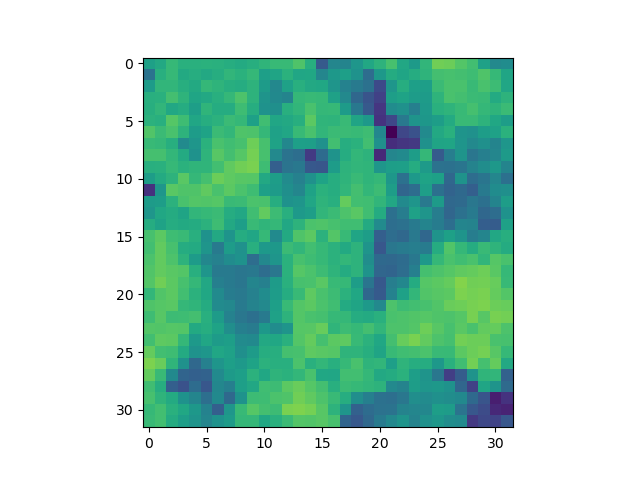
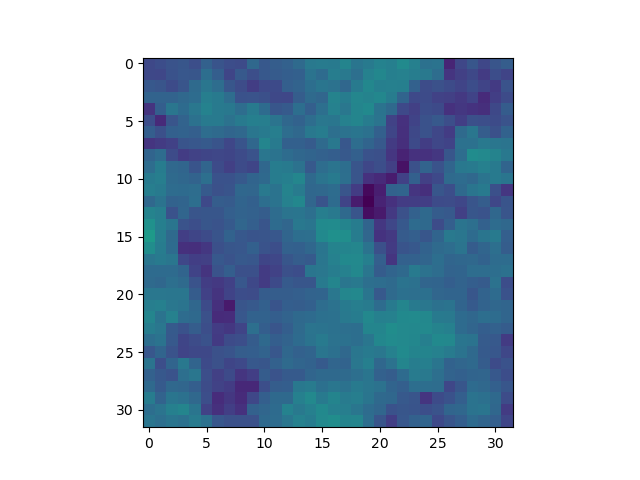
schlather model 2 val data

diff --git a/brown_resnick/sde_diffusion/masked/unparameterized_masked_score/evaluation/diffusion_generation/conditional_mask_data_generation.py b/brown_resnick/sde_diffusion/masked/unparameterized_masked_score/evaluation/diffusion_generation/conditional_mask_data_generation.py
@@ -151,7 +151,7 @@ smooth_value = 1.6
 replicates_per_call = 250
 calls = 4
 number_of_replicates = 1
-seed_value = 7592
+seed_value = 48924
 ref_img = np.log(generate_schlather_process(range_value, smooth_value, seed_value, number_of_replicates, n))
 ref_img = th.from_numpy(ref_img.reshape((1,n,n))).to(device)
 p = .05
@@ -166,7 +166,7 @@ for i in range(0, 4):
 
     partially_observed = (mask*ref_img).detach().cpu().numpy().reshape((n,n))
     np.save("data/schlather/model2/ref_image3/ref_image.npy", ref_img.detach().cpu().numpy().reshape((n,n)))
-    np.save("data/schlather/model2/ref_image3/diffusion/model2_beta_min_max_01_20_random025_250_" + str(i) + ".npy", conditional_samples)
+    np.save("data/schlather/model2/ref_image3/diffusion/model2_beta_min_max_01_20_random05_250_" + str(i) + ".npy", conditional_samples)
     np.save("data/schlather/model2/ref_image3/partially_observed_field.npy", partially_observed.reshape((n,n)))
     np.save("data/schlather/model2/ref_image3/mask.npy", mask.int().detach().cpu().numpy().reshape((n,n)))
     np.save("data/schlather/model2/ref_image3/seed_value.npy", np.array([int(seed_value)]))
@@ -175,3 +175,102 @@ for i in range(0, 4):
     plot_spatial_field((conditional_samples[0,:,:,:]).numpy().reshape((n,n)), -2, 6, "data/schlather/model2/ref_image3/diffusion/visualizations/conditional_sample_0.png")
     plot_masked_spatial_field(spatial_field = ref_img.detach().cpu().numpy().reshape((n,n)),
                    vmin = -2, vmax = 6, mask = mask.int().float().detach().cpu().numpy().reshape((n,n)), figname = "data/schlather/model2/ref_image3/partially_observed_field.png")
+
+
+
+n = 32
+range_value = 3.
+smooth_value = 1.6
+replicates_per_call = 250
+calls = 4
+number_of_replicates = 1
+seed_value = 7520345
+ref_img = np.log(generate_schlather_process(range_value, smooth_value, seed_value, number_of_replicates, n))
+ref_img = th.from_numpy(ref_img.reshape((1,n,n))).to(device)
+p = .075
+mask = (th.bernoulli(p*th.ones(1,1,n,n))).to(device)
+
+for i in range(0, 4):
+#mask = th.ones((1,n,n)).to(device)
+#mask[:, int(n/4):int(n/4*3), int(n/4):int(n/4*3)] = 0
+    y = ((th.mul(mask, ref_img)).to(device)).float()
+    conditional_samples = sample_unconditionally_multiple_calls(sdevp, score_model, device, mask, y, n,
+                                          replicates_per_call, calls)
+
+    partially_observed = (mask*ref_img).detach().cpu().numpy().reshape((n,n))
+    np.save("data/schlather/model2/ref_image4/ref_image.npy", ref_img.detach().cpu().numpy().reshape((n,n)))
+    np.save("data/schlather/model2/ref_image4/diffusion/model2_beta_min_max_01_20_random075_250_" + str(i) + ".npy", conditional_samples)
+    np.save("data/schlather/model2/ref_image4/partially_observed_field.npy", partially_observed.reshape((n,n)))
+    np.save("data/schlather/model2/ref_image4/mask.npy", mask.int().detach().cpu().numpy().reshape((n,n)))
+    np.save("data/schlather/model2/ref_image4/seed_value.npy", np.array([int(seed_value)]))
+
+    plot_spatial_field(ref_img.detach().cpu().numpy().reshape((n,n)), -2, 6, "data/schlather/model2/ref_image4/ref_image.png")
+    plot_spatial_field((conditional_samples[0,:,:,:]).numpy().reshape((n,n)), -2, 6, "data/schlather/model2/ref_image4/diffusion/visualizations/conditional_sample_0.png")
+    plot_masked_spatial_field(spatial_field = ref_img.detach().cpu().numpy().reshape((n,n)),
+                   vmin = -2, vmax = 6, mask = mask.int().float().detach().cpu().numpy().reshape((n,n)), figname = "data/schlather/model2/ref_image4/partially_observed_field.png")
+
+
+
+
+n = 32
+range_value = 3.
+smooth_value = 1.6
+replicates_per_call = 250
+calls = 4
+number_of_replicates = 1
+seed_value = 392528
+ref_img = np.log(generate_schlather_process(range_value, smooth_value, seed_value, number_of_replicates, n))
+ref_img = th.from_numpy(ref_img.reshape((1,n,n))).to(device)
+p = .1
+mask = (th.bernoulli(p*th.ones(1,1,n,n))).to(device)
+
+for i in range(0, 4):
+#mask = th.ones((1,n,n)).to(device)
+#mask[:, int(n/4):int(n/4*3), int(n/4):int(n/4*3)] = 0
+    y = ((th.mul(mask, ref_img)).to(device)).float()
+    conditional_samples = sample_unconditionally_multiple_calls(sdevp, score_model, device, mask, y, n,
+                                          replicates_per_call, calls)
+
+    partially_observed = (mask*ref_img).detach().cpu().numpy().reshape((n,n))
+    np.save("data/schlather/model2/ref_image5/ref_image.npy", ref_img.detach().cpu().numpy().reshape((n,n)))
+    np.save("data/schlather/model2/ref_image5/diffusion/model2_beta_min_max_01_20_random10_250_" + str(i) + ".npy", conditional_samples)
+    np.save("data/schlather/model2/ref_image5/partially_observed_field.npy", partially_observed.reshape((n,n)))
+    np.save("data/schlather/model2/ref_image5/mask.npy", mask.int().detach().cpu().numpy().reshape((n,n)))
+    np.save("data/schlather/model2/ref_image5/seed_value.npy", np.array([int(seed_value)]))
+
+    plot_spatial_field(ref_img.detach().cpu().numpy().reshape((n,n)), -2, 6, "data/schlather/model2/ref_image5/ref_image.png")
+    plot_spatial_field((conditional_samples[0,:,:,:]).numpy().reshape((n,n)), -2, 6, "data/schlather/model2/ref_image5/diffusion/visualizations/conditional_sample_0.png")
+    plot_masked_spatial_field(spatial_field = ref_img.detach().cpu().numpy().reshape((n,n)),
+                   vmin = -2, vmax = 6, mask = mask.int().float().detach().cpu().numpy().reshape((n,n)), figname = "data/schlather/model2/ref_image5/partially_observed_field.png")
+
+
+n = 32
+range_value = 3.
+smooth_value = 1.6
+replicates_per_call = 250
+calls = 4
+number_of_replicates = 1
+seed_value = 49171
+ref_img = np.log(generate_schlather_process(range_value, smooth_value, seed_value, number_of_replicates, n))
+ref_img = th.from_numpy(ref_img.reshape((1,n,n))).to(device)
+p = .125
+mask = (th.bernoulli(p*th.ones(1,1,n,n))).to(device)
+
+for i in range(0, 4):
+#mask = th.ones((1,n,n)).to(device)
+#mask[:, int(n/4):int(n/4*3), int(n/4):int(n/4*3)] = 0
+    y = ((th.mul(mask, ref_img)).to(device)).float()
+    conditional_samples = sample_unconditionally_multiple_calls(sdevp, score_model, device, mask, y, n,
+                                          replicates_per_call, calls)
+
+    partially_observed = (mask*ref_img).detach().cpu().numpy().reshape((n,n))
+    np.save("data/schlather/model2/ref_image6/ref_image.npy", ref_img.detach().cpu().numpy().reshape((n,n)))
+    np.save("data/schlather/model2/ref_image6/diffusion/model2_beta_min_max_01_20_random125_250_" + str(i) + ".npy", conditional_samples)
+    np.save("data/schlather/model2/ref_image6/partially_observed_field.npy", partially_observed.reshape((n,n)))
+    np.save("data/schlather/model2/ref_image6/mask.npy", mask.int().detach().cpu().numpy().reshape((n,n)))
+    np.save("data/schlather/model2/ref_image6/seed_value.npy", np.array([int(seed_value)]))
+
+    plot_spatial_field(ref_img.detach().cpu().numpy().reshape((n,n)), -2, 6, "data/schlather/model2/ref_image6/ref_image.png")
+    plot_spatial_field((conditional_samples[0,:,:,:]).numpy().reshape((n,n)), -2, 6, "data/schlather/model2/ref_image6/diffusion/visualizations/conditional_sample_0.png")
+    plot_masked_spatial_field(spatial_field = ref_img.detach().cpu().numpy().reshape((n,n)),
+                   vmin = -2, vmax = 6, mask = mask.int().float().detach().cpu().numpy().reshape((n,n)), figname = "data/schlather/model2/ref_image6/partially_observed_field.png")
